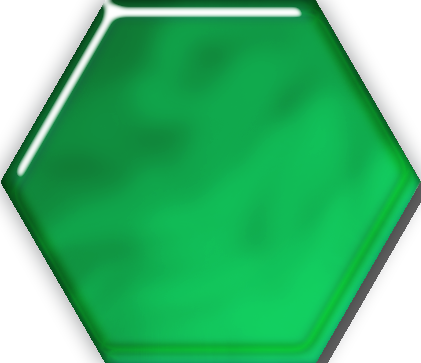
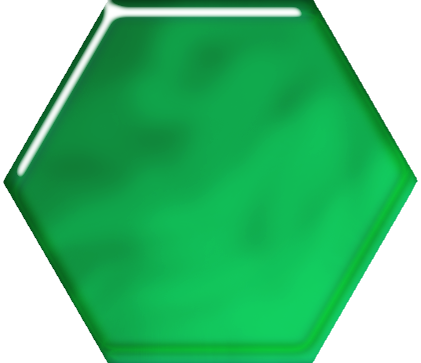
1

Changed region(s): [[0.7411, 0.0, 1.0, 1.0], [0.0, 0.0, 0.2779, 1.0]]

diff --git a/css/main.css b/css/main.css
@@ -1,3 +1,8 @@
+html, body {
+  width:  100%;
+  height: 100%;
+  margin: 0px;
+}
 body {
   background-color: #4a9690;
   font-family: 'Indie Flower', cursive;
@@ -29,6 +34,10 @@ body {
 
 #about {
   transform: translate(0, -5%);
+}
+
+#HexCanvas {
+  display: block;
 }
 
 .screen {
